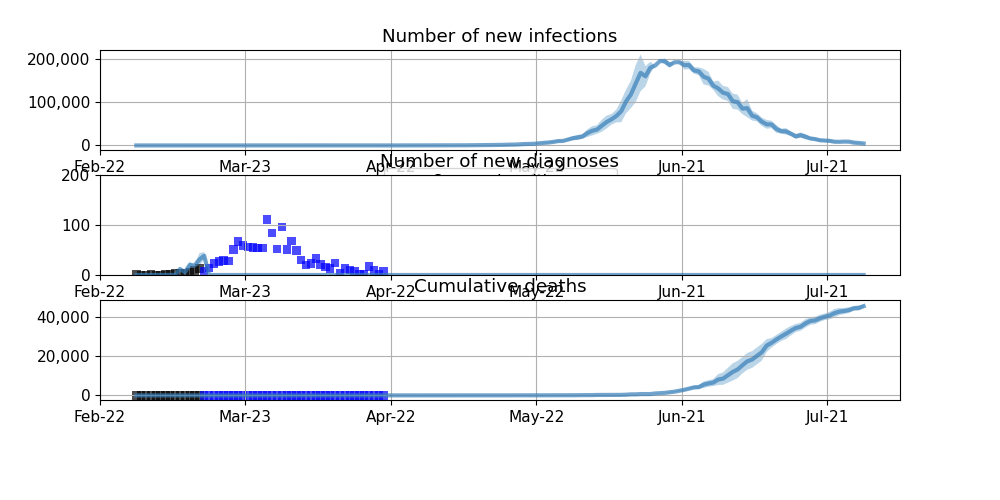
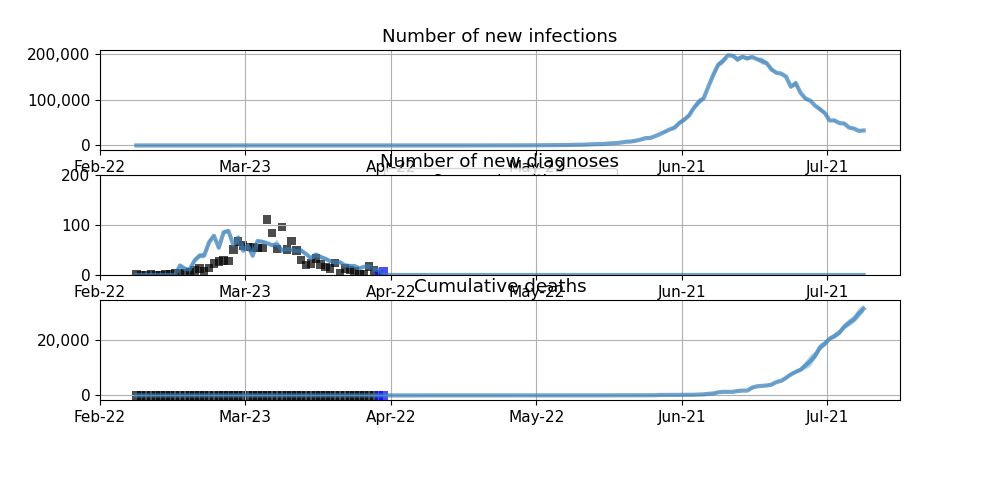
fix testing extrapolation

diff --git a/data.py b/data.py
@@ -292,7 +292,8 @@ def extrapolate_tests(tests, future_tests, start_day, n_days, calibration_date):
         days_without_data = n_days - days_with_data
         tests = np.append(test_data, [future_tests] * days_without_data)
     else:
-        days_after_calibration = utils.get_ndays(start_day, calibration_date)
+        days_for_calibration = utils.get_ndays(start_day, calibration_date)
+        days_after_calibration = n_days - days_for_calibration 
         test_data = tests.loc[tests['date'] <= calibration_date].copy()  # subset tests
         test_data = test_data['new_tests'].to_numpy()
         tests = np.append(test_data, [future_tests] * days_after_calibration)

diff --git a/applications/run_vic_pubs.py b/applications/run_vic_pubs.py
@@ -20,7 +20,7 @@ if __name__ == "__main__":
     user_pars = {'Victoria': {'pop_size': int(2e4),
                                'beta': 0.06,
                                'n_days': 150,
-                               'calibration_end': '2020-03-15'}}
+                               'calibration_end': '2020-04-20'}}
 
     # the metapars for all countries and scenarios
     metapars = {'n_runs': 2,
